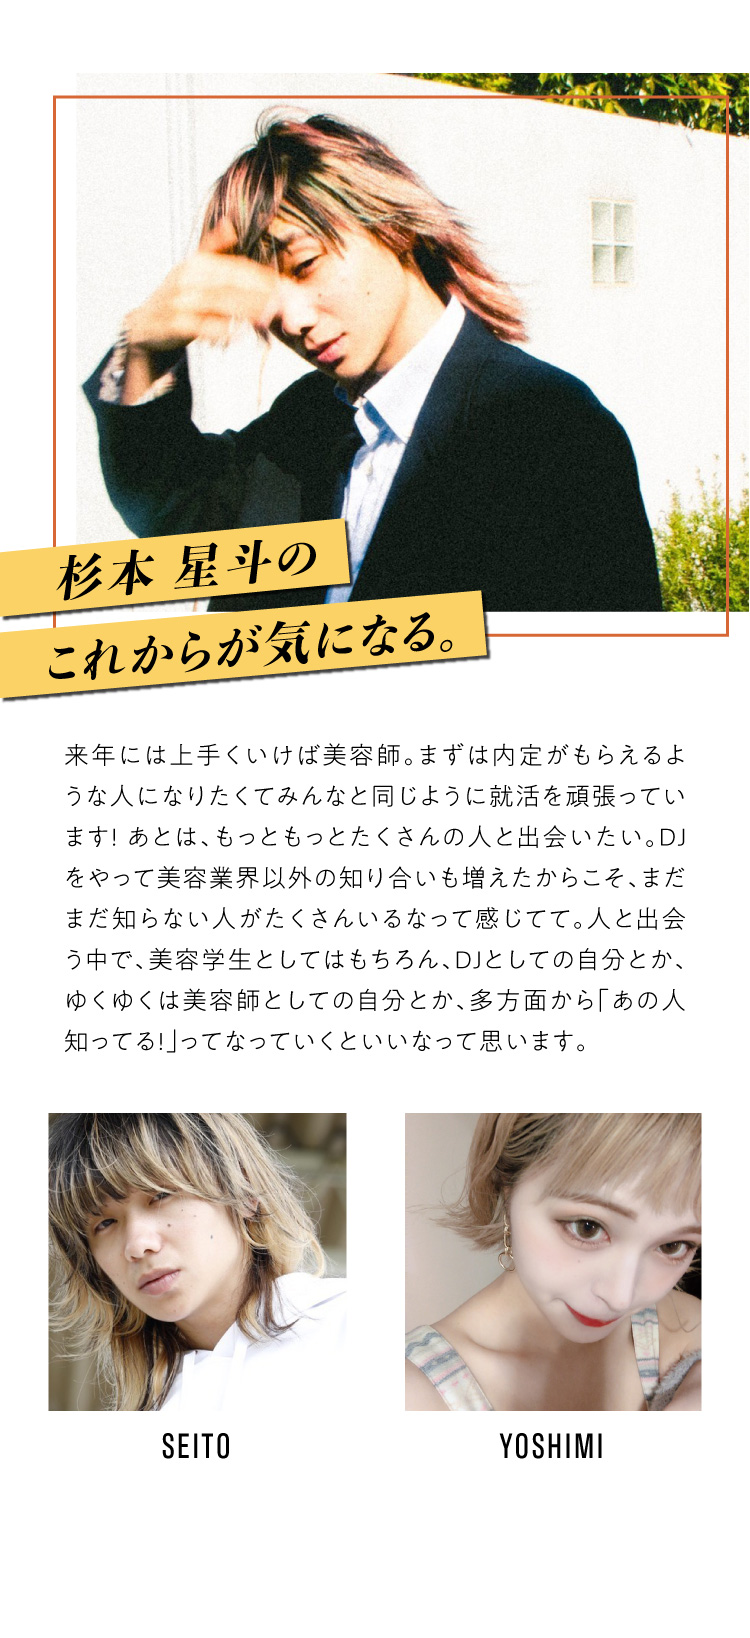
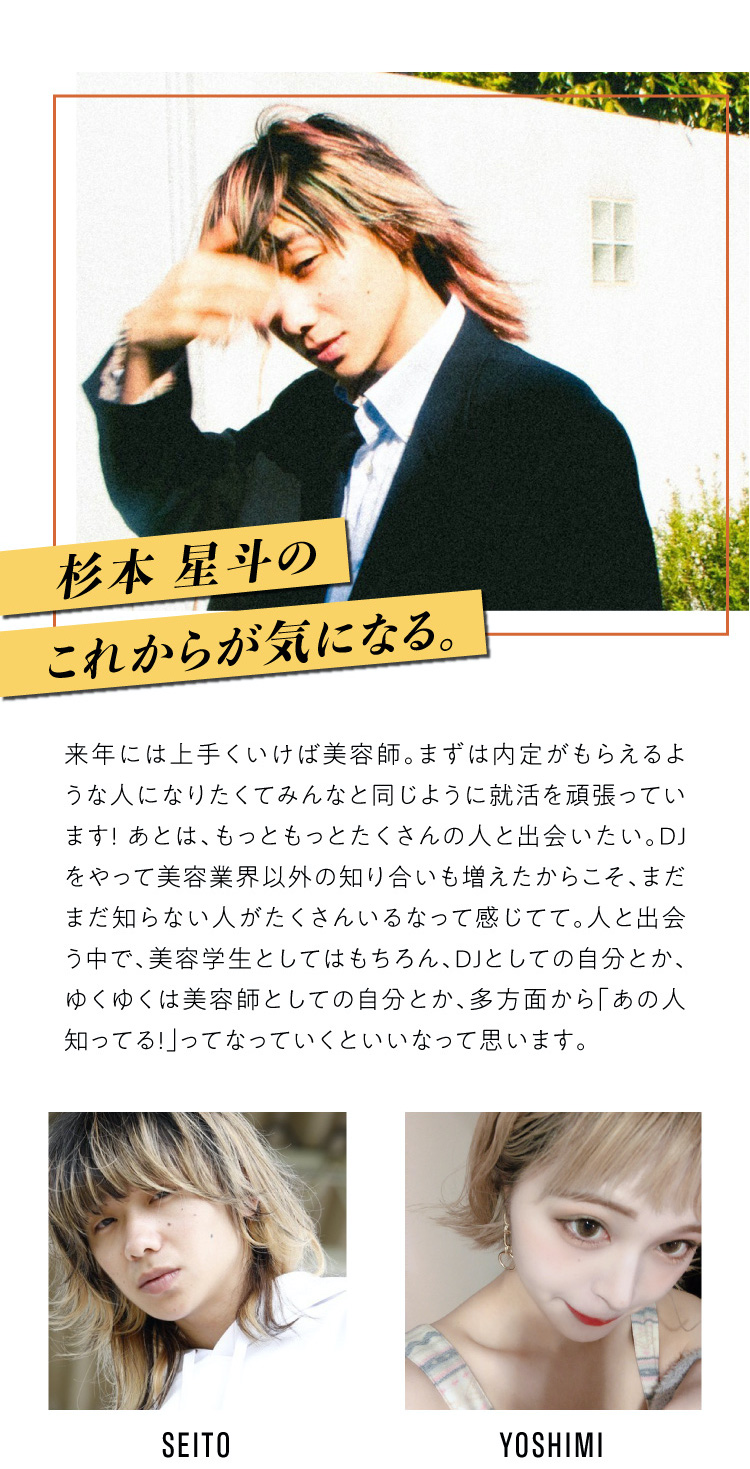
changed something

diff --git a/css/index.css b/css/index.css
@@ -41,18 +41,19 @@ a {
 
 .FromNowOn {
     width: 100%;
+    margin: 5px;
 }
 
 .follow1 {
     width: 35%;
     float: left;
-    margin-left: 8%;
+    margin-left: 10%;
 }
 
 .follow2 {
     width: 35%;
     float: left;
-    margin-left: 13%;
+    margin-left: 12.5%;
 }
 
 
@@ -60,6 +61,9 @@ a {
 
 
 
+.under_contennts {
+    margin-top: 80PX;
+}
 
 .contents {
     width: 100%;

diff --git a/index.html b/index.html
@@ -48,7 +48,7 @@
 
 
                 
-                <div class="under-contennts">
+                <div class="under_contennts">
                     <a href="https://bestar-official.github.io/web-magazine_20200624/">
                         <img class="contents" src="./images/contents1.jpg" alt="イケてる美容学生のバッグの中身">
                     </a>
